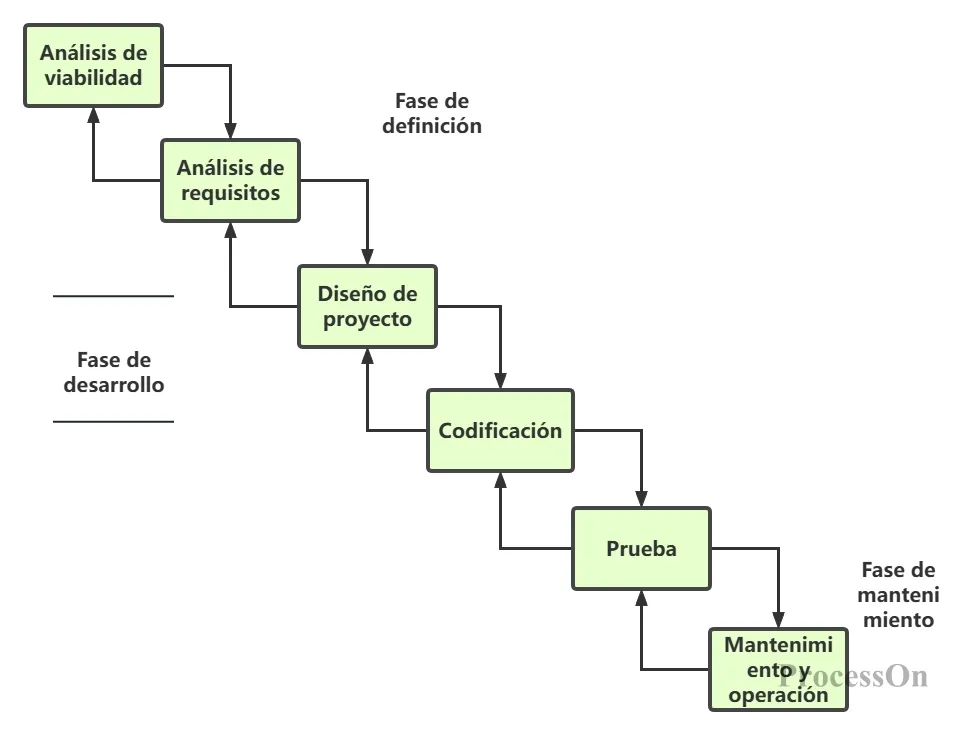
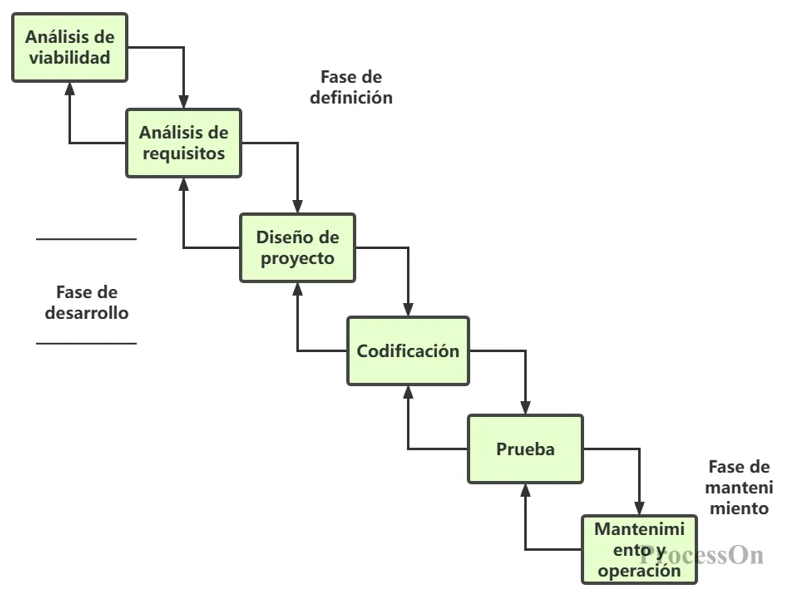
el domcumento esta a un 90%

diff --git a/main.tex b/main.tex
@@ -24,12 +24,12 @@
 en proyectos de software}
 
 \author{
-\IEEEauthorblockN{Bryan Gutemal}
+\IEEEauthorblockN{Bryan Stalin Guatemal Avilez}
 \IEEEauthorblockA{
 Carrera de Ingeniería de Software\\
 Universidad Técnica de Ambato\\
 Ambato, Ecuador\\
-correo@ejemplo.com
+bguatemal3993@uta.edu.ec
 }
 }
 
@@ -99,6 +99,14 @@ En términos generales, los modelos de ciclo de vida buscan responder a pregunta
 
 El modelo en cascada es uno de los enfoques más tradicionales dentro de la ingeniería de software. Su estructura es lineal y secuencial, lo que significa que el proyecto avanza de una fase a otra en un orden preestablecido. Entre las etapas más comunes de este modelo se encuentran el análisis de requisitos, diseño, implementación, pruebas, despliegue y mantenimiento \cite{royce1970,saravanos2023}.
 
+\begin{figure}[htbp]
+\centerline{\includegraphics[width=0.42\textwidth]{imagenes/cascada.png}}
+\caption{Representación del modelo en cascada y sus principales fases.}
+\label{fig:cascada}
+\end{figure}
+
+Como se observa en la Fig.~\ref{fig:cascada}, el modelo en cascada sigue una secuencia lineal de fases bien definidas, en la que cada etapa debe completarse antes de continuar con la siguiente.
+
 Una de las principales características del modelo en cascada es que cada fase debe completarse antes de pasar a la siguiente. Esto favorece la organización del trabajo y permite definir con claridad entregables específicos en cada etapa. Asimismo, su fuerte orientación a la documentación lo convierte en un modelo especialmente útil en contextos donde el control formal del proceso es prioritario \cite{sommerville2016}.
 
 Entre sus ventajas se destacan la claridad estructural, la facilidad de planificación y la posibilidad de realizar un seguimiento ordenado del proyecto. Este modelo funciona bien cuando los requisitos son estables, el entorno es predecible y se necesita una documentación completa del proceso. También es útil cuando la organización desea mantener un control estricto sobre tiempos, recursos y actividades.
@@ -110,6 +118,14 @@ En cuanto a su aplicación, el modelo en cascada es recomendable en proyectos co
 \subsection{Modelo en V}
 
 El modelo en V es una evolución de los enfoques secuenciales y se caracteriza por vincular explícitamente cada fase de desarrollo con una fase de prueba asociada. Por ello, es conocido también como un modelo de verificación y validación. En su representación gráfica, el lado izquierdo de la “V” corresponde a las fases de definición y diseño, mientras que el lado derecho corresponde a los procesos de prueba e integración \cite{durmus2018,alphonce2023}.
+
+\begin{figure}[htbp]
+\centerline{\includegraphics[width=0.44\textwidth]{imagenes/v.png}}
+\caption{Representación del modelo en V y la relación entre desarrollo y pruebas.}
+\label{fig:modelov}
+\end{figure}
+
+La Fig.~\ref{fig:modelov} muestra cómo el modelo en V relaciona cada etapa de desarrollo con una etapa de prueba correspondiente, fortaleciendo así la verificación y validación del sistema.
 
 Una ventaja importante del modelo en V es que la calidad no se deja exclusivamente para el final del desarrollo, sino que se planifica desde etapas tempranas. Cada nivel de especificación o diseño se relaciona con un nivel particular de prueba, como pruebas unitarias, de integración, de sistema y de aceptación. Esta estructura mejora la trazabilidad y fortalece el control de calidad \cite{durmus2018}.
 
@@ -146,6 +162,14 @@ Este enfoque es adecuado en proyectos innovadores, soluciones complejas o desarr
 \subsection{Modelo espiral}
 
 El modelo espiral fue propuesto como una alternativa capaz de integrar control, evolución progresiva y gestión del riesgo. Su característica esencial es que cada ciclo de desarrollo se estructura alrededor de la identificación y resolución de riesgos, lo que lo convierte en un enfoque guiado por riesgos \cite{boehm1988,boehm2000}.
+
+\begin{figure}[htbp]
+\centerline{\includegraphics[width=0.40\textwidth]{imagenes/spiral.png}}
+\caption{Representación del modelo espiral orientado a la gestión del riesgo.}
+\label{fig:espiral}
+\end{figure}
+
+En la Fig.~\ref{fig:espiral} se aprecia la naturaleza iterativa del modelo espiral, así como su énfasis en la planificación, evaluación, ingeniería y análisis de riesgos en cada ciclo.
 
 En este modelo, cada vuelta de la espiral incluye cuatro grandes actividades: definición de objetivos y alternativas, análisis de riesgos, desarrollo y validación del producto, y planificación de la siguiente iteración. Esta lógica permite abordar el proyecto de forma progresiva, pero sin perder de vista las amenazas técnicas, económicas y organizativas que podrían comprometer su éxito.
 
@@ -235,39 +259,7 @@ En consecuencia, puede concluirse que no existe un modelo universalmente superio
 
 Se agradece al docente de la asignatura por las orientaciones proporcionadas para la elaboración del presente artículo y por el seguimiento académico realizado durante el desarrollo del trabajo.
 
-\begin{thebibliography}{00}
-
-\bibitem{royce1970}
-W. Royce, ``Managing the development of large software systems,'' in \textit{Proceedings of IEEE WESCON}, 1970, pp. 1--9.
-
-\bibitem{sommerville2016}
-I. Sommerville, \textit{Software Engineering}, 10th ed. Pearson, 2016.
-
-\bibitem{saravanos2023}
-A. Saravanos \textit{et al.}, ``Simulating the software development lifecycle: The waterfall model,'' \textit{Systems}, vol. 6, no. 6, p. 108, 2023.
-
-\bibitem{durmus2018}
-M. S. Durmuş and U. Ozkaya, ``Enhanced V-Model,'' \textit{Informatica}, vol. 42, no. 4, 2018.
-
-\bibitem{alphonce2023}
-M. A. Alphonce, \textit{Improving software verification and validation state of practices in software development organizations}, 2023.
-
-\bibitem{scacchi2001}
-W. Scacchi, \textit{Process models in software engineering}. University of California, Irvine, 2001.
-
-\bibitem{boehm1988}
-B. W. Boehm, ``A spiral model of software development and enhancement,'' \textit{Computer}, vol. 21, no. 5, pp. 61--72, 1988.
-
-\bibitem{boehm2000}
-B. W. Boehm, \textit{Spiral development: Experience, principles, and refinements}. Carnegie Mellon University, Software Engineering Institute, 2000.
-
-\bibitem{beck2001}
-K. Beck \textit{et al.}, ``Manifesto for Agile Software Development,'' 2001.
-
-\bibitem{jalali2012}
-S. Jalali and C. Wohlin, ``Global software engineering and agile practices: A systematic review,'' \textit{Journal of Software: Evolution and Process}, 2012.
-
-\end{thebibliography}
-
+\bibliographystyle{IEEEtran}
+\bibliography{sample}
 \balance
 \end{document}
